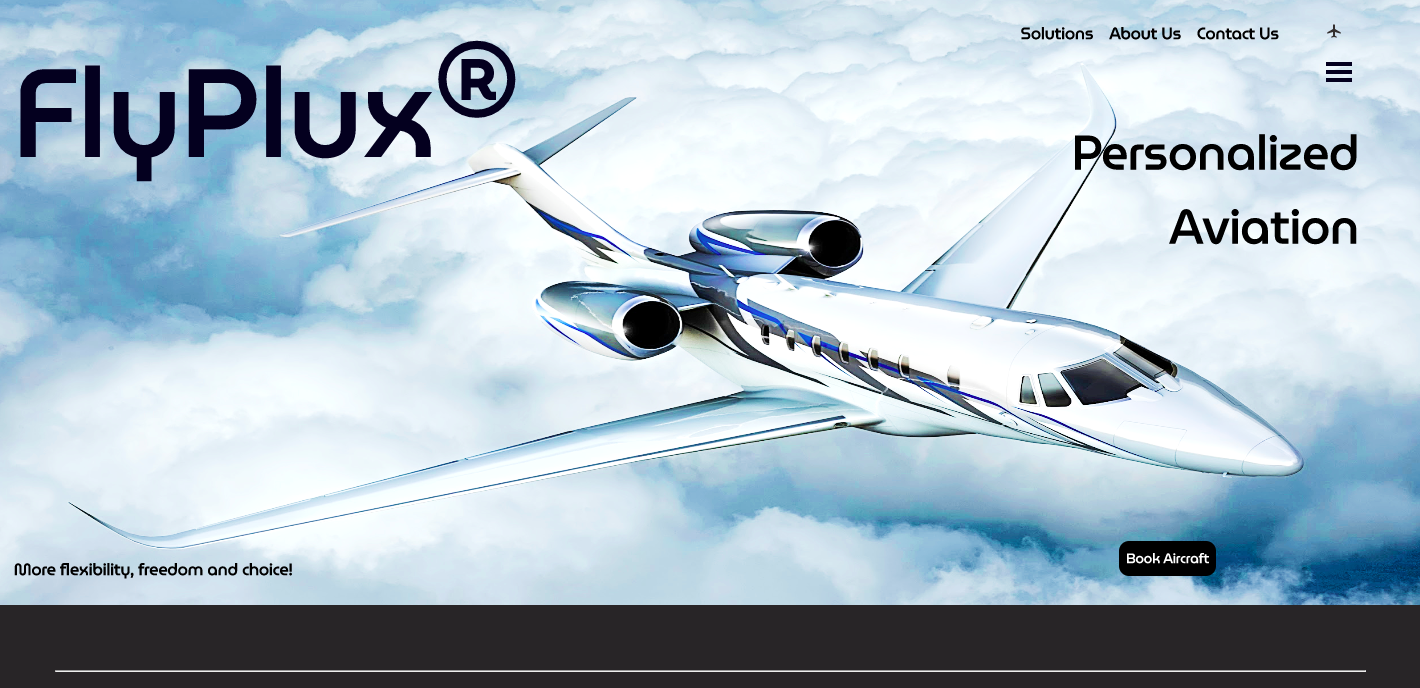
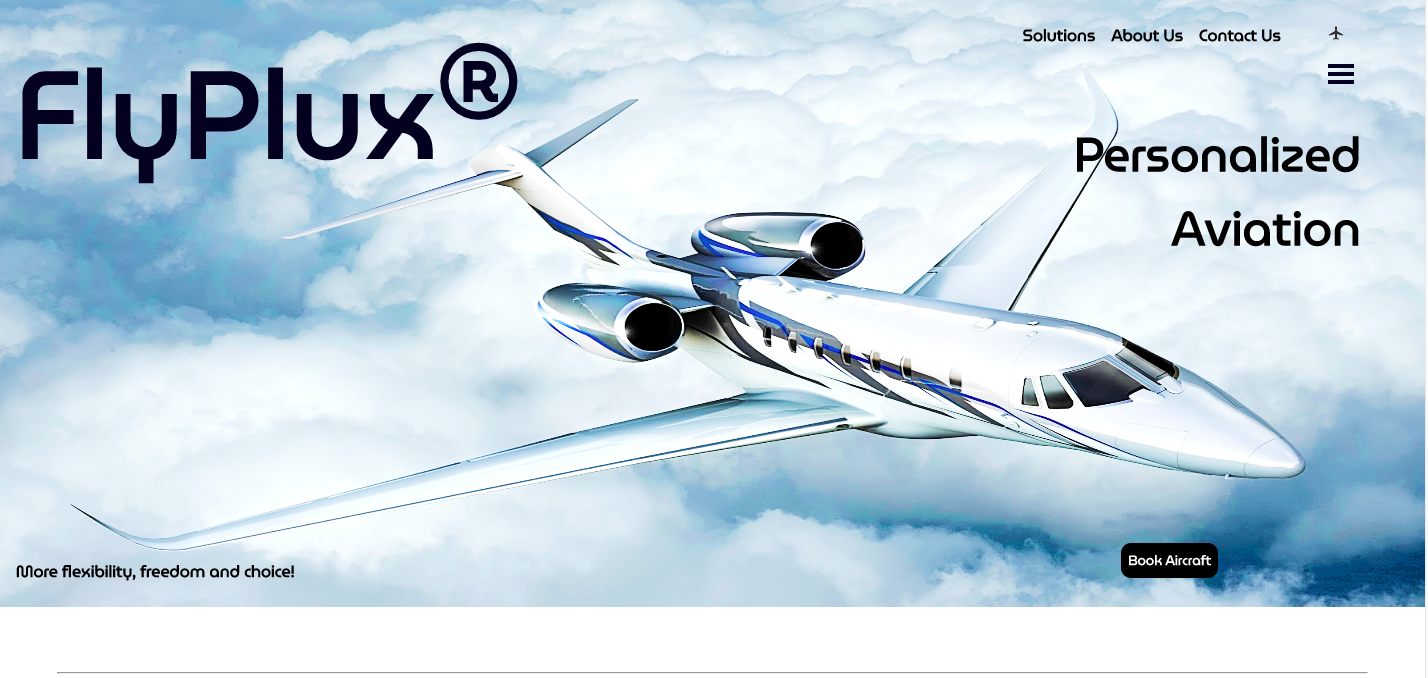
updates

diff --git a/Components/Tech.tsx b/Components/Tech.tsx
@@ -28,14 +28,14 @@ const Tech = () => {
       viewport={{ once: false }}
       transition={spring}
     >
-      <Box py={{base:'5rem', md:'6rem' }} background={'linear-gradient( to bottom, rgb(184,227,253) 0%, white 90%)'} px={{base: '1.25rem', sm: '1.5rem', md: '3rem', lg: '6rem'}} textAlign={'center'} minHeight={{base:'60vh', '2xl':'fit-content'}} id={'tech'} maxWidth={'1500px'} fontFamily={'fantasy'} m={'auto'}>
+      <Box py={{base:'5rem', md:'6rem' }} background={'linear-gradient( to bottom, rgb(184,227,253) 0%, white 90%)'} px={{base: '1.25rem', sm: '1.5rem', md: '3rem', lg: '6rem'}} textAlign={'center'} minHeight={{base:'60vh', '2xl':'fit-content'}} id={'tech'} maxWidth={'1500px'} m={'auto'}>
 
         <SectionHeading 
           name='Tech'
           position='right'
         />
         <SectionSubHeading 
-          name='Skilled at the following software'
+          name='Skilled at the following software.'
           position='right'
         />
 

diff --git a/Components/ContactIcons.tsx b/Components/ContactIcons.tsx
@@ -5,8 +5,8 @@ import { Button, Box, Tooltip } from '@chakra-ui/react';
 const ContactIcon = (props:any) => {
   return ( 
     <Box>
-      <Tooltip label={props.tooltip} aria-label='A tooltip' fontFamily={'fantasy'}>
-        <Button variant={'ghost'} color={'white'} _hover={{color:'black', backgroundColor:'white'}} fontSize={{lg:'30px'}}>
+      <Tooltip label={props.tooltip} aria-label='A tooltip'>
+        <Button variant={'ghost'} color={'white'} _hover={{color:'black', backgroundColor:'white'}} fontSize={{lg:'24px' ,xl:'30px'}}>
           <a href={props.link}>{props.icon}</a>
         </Button>
       </Tooltip>

diff --git a/Components/Footer.tsx b/Components/Footer.tsx
@@ -24,7 +24,8 @@ const Footer = () => {
       <Divider color={'black'} height={'2px'} w={'90%'} m={'auto'} pb={'4'}/>
 
       <Text fontSize={{base:'14px', lg: '20px'}} color={'white'} textAlign={'center'} pt={'4'} >
-        Copyright © {new Date().getFullYear()}- jeremysmith.dev
+      All rights reserved. <br />
+      Copyright © {new Date().getFullYear()}
       </Text>
     </Box>
    );

diff --git a/Components/Menu.tsx b/Components/Menu.tsx
@@ -48,7 +48,7 @@ const Menu = () => {
               mt='3rem'
             />
 
-            <Text fontSize={'16px'} position={'absolute'} bottom={5}>
+            <Text fontSize={'16px'} position={'absolute'} bottom={5} textAlign={'center'}>
               Made with passion by <span style={{fontWeight: 900}}>Jeremy Smith.</span> <br />
               <br />
 

diff --git a/Components/Projects.tsx b/Components/Projects.tsx
@@ -126,7 +126,7 @@ const Projects = () => {
         position='left'
       />
       <SectionSubHeading 
-        name='Some projects worked on'
+        name='Some of the projects worked on.'
         position='left'
       />
 
